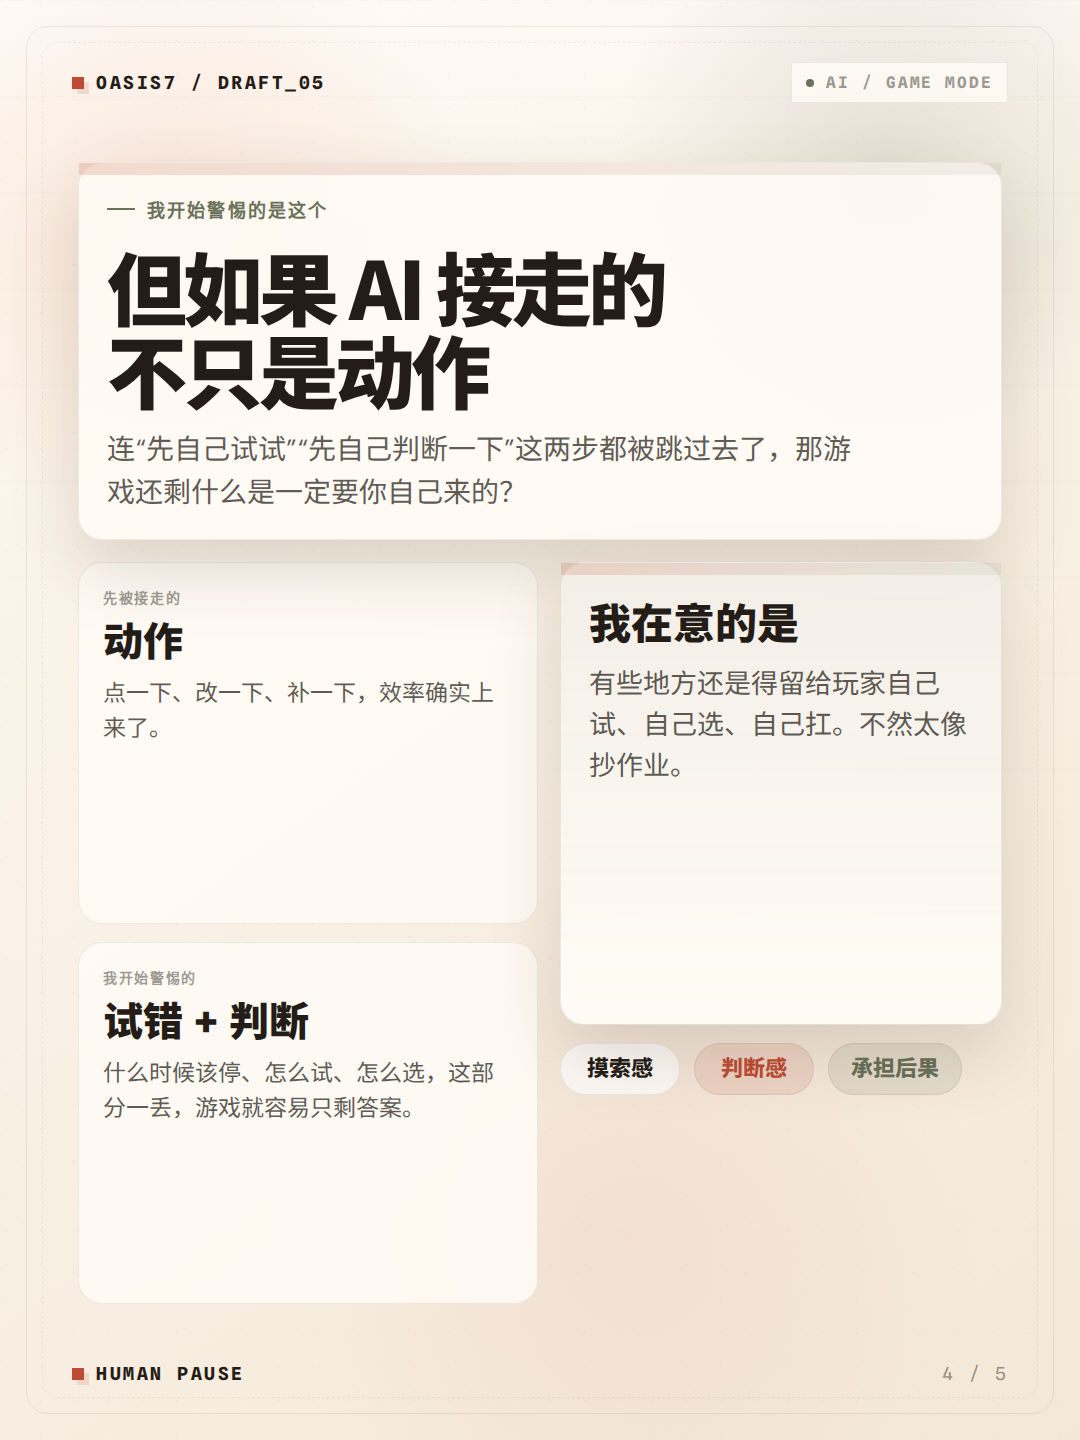
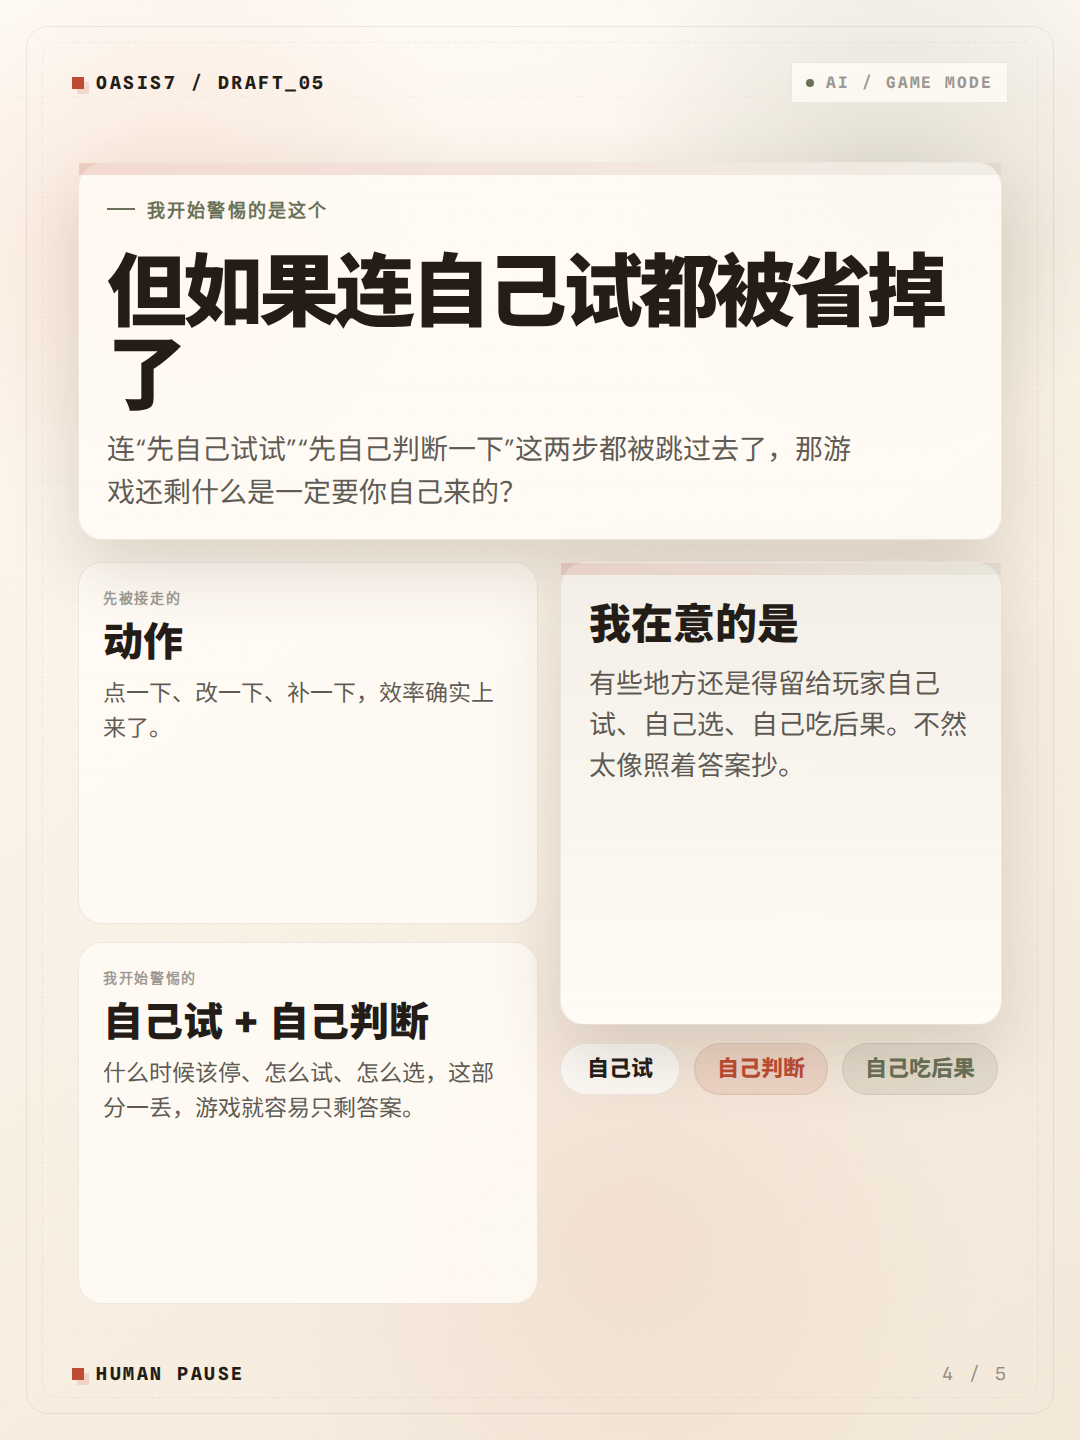
Refine Xiaohongshu AI laziness post

diff --git a/site/social/xiaohongshu-ai-laziness-game-mode.html b/site/social/xiaohongshu-ai-laziness-game-mode.html
@@ -784,23 +784,23 @@
         {
           kind: "cover",
           title: 'AI时代，<br />你变<span class="accent">"懒"</span>了么',
-          subtitle: "我这阵子老碰到这个瞬间。不只写东西卡住会先问 AI，打游戏卡关也开始想先看答案。",
+          subtitle: "我这阵子有个变化挺明显。不只写东西卡住会先问 AI，打游戏卡关也开始想先看答案。",
           noteTitle: "这事我自己也有",
-          noteBody: "以前会先乱试几把。现在有时候第一反应已经是：攻略呢，答案呢。",
+          noteBody: "以前会先乱试几把。现在有时候第一反应已经是：要不要先看一眼攻略？",
           compareLeft: "以前卡关会先自己试一会儿",
-          compareRight: "现在更容易先看攻略 / 问 AI",
-          prompt: "如果答案越来越容易拿到手，游戏还该留什么给人？",
+          compareRight: "现在更容易先查攻略 / 问 AI",
+          prompt: "如果攻略和答案越来越容易拿到手，游戏还该留什么给人？",
         },
         {
           kind: "chat",
-          title: "我是真的会偷懒",
+          title: "我发现自己会偷懒",
           stickyTitle: "先承认这件事",
-          stickyBody: "整理、改字会先找 AI。连打游戏卡关，我现在也更容易先看攻略。",
+          stickyBody: "整理、改字会先找 AI。连打游戏卡关，我现在也更容易先查攻略。",
           userTitle: "以前的停顿",
           userBody: '<span class="strike">等等，我先自己试一下</span>',
           aiTitle: "现在更常见的反应",
           aiBody: "先搜攻略，或者先让 AI 把配装和路线捋一下。",
-          tail: "省事当然爽。可要是连自己试都懒了，游戏那口气也会淡。",
+          tail: "省事当然爽。可要是连自己试都省了，游戏那口气也会淡。",
         },
         {
           kind: "allowed",
@@ -826,7 +826,7 @@
         },
         {
           kind: "question",
-          title: "但如果 AI 接走的<br />不只是动作",
+          title: "但如果连自己试都被省掉了",
           body: "连“先自己试试”“先自己判断一下”这两步都被跳过去了，那游戏还剩什么是一定要你自己来的？",
           ladder: [
             {
@@ -836,33 +836,33 @@
             },
             {
               label: "我开始警惕的",
-              title: "试错 + 判断",
+              title: "自己试 + 自己判断",
               body: "什么时候该停、怎么试、怎么选，这部分一丢，游戏就容易只剩答案。",
             },
           ],
           sideTitle: "我在意的是",
-          sideBody: "有些地方还是得留给玩家自己试、自己选、自己扛。不然太像抄作业。",
-          tokens: ["摸索感", "判断感", "承担后果"],
+          sideBody: "有些地方还是得留给玩家自己试、自己选、自己吃后果。不然太像照着答案抄。",
+          tokens: ["自己试", "自己判断", "自己吃后果"],
         },
         {
           kind: "closing",
-          title: "你觉得最该留给人的<br />到底是什么？",
-          body: "如果攻略和最优解都越来越容易拿到手，你最不想省掉哪一步？",
+          title: "你最不想省掉的<br />到底是哪一步？",
+          body: "如果攻略、配装、答案都越来越容易拿到手，你最不想省掉哪一步？",
           options: [
             {
-              title: "摸索感",
+              title: "自己试",
               body: "先自己试、自己绕、自己踩坑，这口气不能一下全没了。",
             },
             {
-              title: "判断感",
+              title: "自己判断",
               body: "这会儿该怎么选，最好还是你自己定。",
             },
             {
-              title: "承担后果",
+              title: "自己吃后果",
               body: "选错了也得自己吃到，这样才像自己打的。",
             },
           ],
-          footer: "我现在最不想省掉的，是后两步。你呢？",
+          footer: "我现在最舍不得省掉的，是后两步。你呢？",
         },
       ];
 
@@ -1032,9 +1032,9 @@
                     <p style="margin-top: 18px;">${slide.sideBody}</p>
                   </div>
                   <div class="token-cloud">
-                    <span class="token">摸索感</span>
-                    <span class="token hot">判断感</span>
-                    <span class="token soft">承担后果</span>
+                    <span class="token">自己试</span>
+                    <span class="token hot">自己判断</span>
+                    <span class="token soft">自己吃后果</span>
                   </div>
                 </div>
               </div>

diff --git a/doc/readme/governance/readme-xiaohongshu-ai-laziness-game-mode-post-pack-2026-03-26.md b/doc/readme/governance/readme-xiaohongshu-ai-laziness-game-mode-post-pack-2026-03-26.md
@@ -35,10 +35,12 @@ AI时代，你变"懒"了么
 ## 正文建议
 ```text
 用了 AI 以后，
-我发现自己是真的会偷懒。
+我发现自己有个变化挺明显。
 
-不只是写东西的时候。
-连打游戏也是。
+不只是写东西会先问 AI。
+连打游戏卡关，
+我现在都会先想：
+要不要先看一眼攻略？
 
 以前卡关了，
 我会先自己乱试几把，
@@ -50,50 +52,53 @@ AI时代，你变"懒"了么
 或者先问一句 AI，
 先把配装、路线、答案看一眼。
 
-有些省事我觉得没问题。
+省事当然省事。
+
+而且有些省事我觉得没问题。
 整理资料、改字、刷材料，
 或者游戏里那些纯刷材料的劳动，
 本来就挺耗人。
 
-但我越来越在意另一种。
-
+但我越来越在意的是，
 如果连
 “我先自己试试”
-这一步都省了，
-游戏好像也会跟着少一截。
+这一下也没了，
+游戏会不会也少了点东西？
 
 因为被跳过去的，
 不只是几个动作。
-还有摸索、判断，
-还有你选错以后那一下别扭。
+还有你自己摸出来的过程，
+自己判断的那一下，
+还有选错以后那点难受。
 
-所以我最近老在想：
-如果 AI 真的把答案
-递到人脸上了，
+所以我最近一直在想：
+如果 AI 让答案
+越来越容易拿到手，
 那游戏还该留什么给人？
 
-是摸索感？
-是判断感？
-还是做了选择以后，
-要自己承担后果？
+是自己试。
+是自己判断。
+还是选完以后，
+得自己吃那个后果。
 
-我现在会更在意后两者。
+我现在最舍不得的，
+其实是后两步。
 
 不然很多游戏最后
-就只剩通关流程了。
-那种
-“这是我自己打出来的”
+真的会变成一条通关流程。
+那种“这是我自己打出来的”
 感觉，会淡很多。
 
-你会有这种感觉吗？
+你们会这样吗？
 用了 AI 之后，
-你打游戏会更想自己试，
-还是更想先看答案？
+现在打游戏卡关，
+你会先查攻略，
+还是先自己试？
 ```
 
 ## 评论区引导
 ```text
-如果攻略和最优解越来越容易拿到手，你最不想省掉哪一步：自己试、自己判断，还是自己承担后果？
+如果攻略、配装、答案都越来越容易拿到手，你最不想省掉哪一步：自己试、自己判断，还是自己吃后果？
 ```
 
 ## 卡片文案
@@ -106,12 +111,12 @@ AI时代，
 
 ### 第 2 页 / 先承认变化
 ```text
-我是真的会偷懒
+我发现自己会偷懒
 
 不只是在工作里
 
 以前卡关会先乱试
-现在更容易先看答案
+现在更容易先查攻略
 ```
 
 ### 第 3 页 / 哪些懒没问题
@@ -128,10 +133,11 @@ AI时代，
 
 ### 第 4 页 / 重点收回游戏模式
 ```text
-但如果 AI 接走的
-不只是动作
+但如果连
 
-还有自己试和自己判断
+自己试和自己判断
+
+都被省掉了
 
 那游戏
 还剩什么是你的？
@@ -142,13 +148,13 @@ AI时代，
 你最不想省掉的
 是自己试
 自己判断
-还是自己承担后果？
+还是自己吃后果？
 ```
 
 ## 封面与视觉建议
 ### 封面短句
 ```text
-我确实有点变懒了
+连打游戏都想先看答案了
 ```
 
 ### 推荐视觉搭配
@@ -186,11 +192,12 @@ AI时代，
 ## 标签建议
 ```text
 #AI
+#独立游戏
+#游戏思考
 #游戏开发
-#开发日记
 #游戏设计
+#开发日记
 #独立开发
-#Agent
 ```
 
 ## 发布备注
@@ -198,6 +205,7 @@ AI时代，
 - 重点不是批判懒，而是区分“哪些懒没问题，哪些懒会把判断感也带走”。
 - 最好明确提到“连玩游戏也会想先搜攻略 / 看最优解 / 让 AI 总结 build”，不然游戏这一层会显得太后置。
 - 如果还要继续人味化，优先保留“乱试几把”“先看答案”“太像抄作业”这种口语，不要再往“游戏模式”“玩家体验”这种抽象词退回去。
+- 如果还要继续平台化，优先保留“要不要先看一眼攻略”“现在打游戏卡关，你会先查攻略还是先自己试”这两句，它们最像真实讨论入口。
 - 讨论必须往游戏模式收，不要停在泛工具效率和生产力焦虑。
 - 不要写成“我们的游戏已经给出了完整答案”，当前只能保持设计判断层表达。
 - 评论区优先接“最该留给人的是什么”这个问题，不要在评论区扩展成大而泛的 AI 伦理辩论。

diff --git a/doc/devlog/2026-03-26.md b/doc/devlog/2026-03-26.md
@@ -420,3 +420,17 @@
   - `agent-browser open http://127.0.0.1:8765/site/social/xiaohongshu-player-boundary.html?slide=5`
 - 遗留事项：
   - 这版已经基本到位；如果还要继续抠，优先只动封面副文，不要再动标题和第 5 页问题句。
+
+## 12:24:18 CST / liveops_community
+- 完成内容：
+  - 用和第四篇同样的方法重新过了一遍第五篇，把文案从“概念讨论”继续往“真实习惯变化”压，重点把 `摸索感 / 判断感 / 承担后果` 这种抽象词，改成“自己试 / 自己判断 / 自己吃后果”这种更像评论区会直接接的话。
+  - 第五篇封面和前两页也同步改得更像平台问题帖，比如把“攻略呢，答案呢”压成“要不要先看一眼攻略？”，把“我是真的会偷懒”改成“我发现自己会偷懒”。
+  - 覆盖导出 `site/social/xiaohongshu-ai-laziness-game-mode-slide1.png` 到 `site/social/xiaohongshu-ai-laziness-game-mode-slide5.png`，并更新 `doc/readme/project.md` 的第五篇验收关键字。
+- 执行验证：
+  - `agent-browser open http://127.0.0.1:8765/site/social/xiaohongshu-ai-laziness-game-mode.html?slide=1`
+  - `agent-browser open http://127.0.0.1:8765/site/social/xiaohongshu-ai-laziness-game-mode.html?slide=2`
+  - `agent-browser open http://127.0.0.1:8765/site/social/xiaohongshu-ai-laziness-game-mode.html?slide=4`
+  - `agent-browser open http://127.0.0.1:8765/site/social/xiaohongshu-ai-laziness-game-mode.html?slide=5`
+  - `rg -n "AI时代，你变\"懒\"了么|要不要先看一眼攻略|先查攻略|自己试|自己判断|自己吃后果" doc/readme/governance/readme-xiaohongshu-ai-laziness-game-mode-post-pack-2026-03-26.md`
+- 遗留事项：
+  - 这版已经比较接近可发版；如果还要继续压，优先只改第 4 页长副文，不要再动第 5 页问题句。

diff --git a/doc/readme/project.md b/doc/readme/project.md
@@ -356,7 +356,7 @@
     - `site/social/xiaohongshu-ai-laziness-game-mode-slide5.png`
     - `doc/devlog/2026-03-26.md`
   - 验收命令 (`test_tier_required`):
-    - `rg -n "AI时代，你变\"懒\"了么|先搜一下攻略|连玩游戏|摸索感|判断感|承担后果" doc/readme/governance/readme-xiaohongshu-ai-laziness-game-mode-post-pack-2026-03-26.md`
+    - `rg -n "AI时代，你变\"懒\"了么|要不要先看一眼攻略|先查攻略|自己试|自己判断|自己吃后果" doc/readme/governance/readme-xiaohongshu-ai-laziness-game-mode-post-pack-2026-03-26.md`
     - `./scripts/doc-governance-check.sh`
     - `git diff --check`
 
